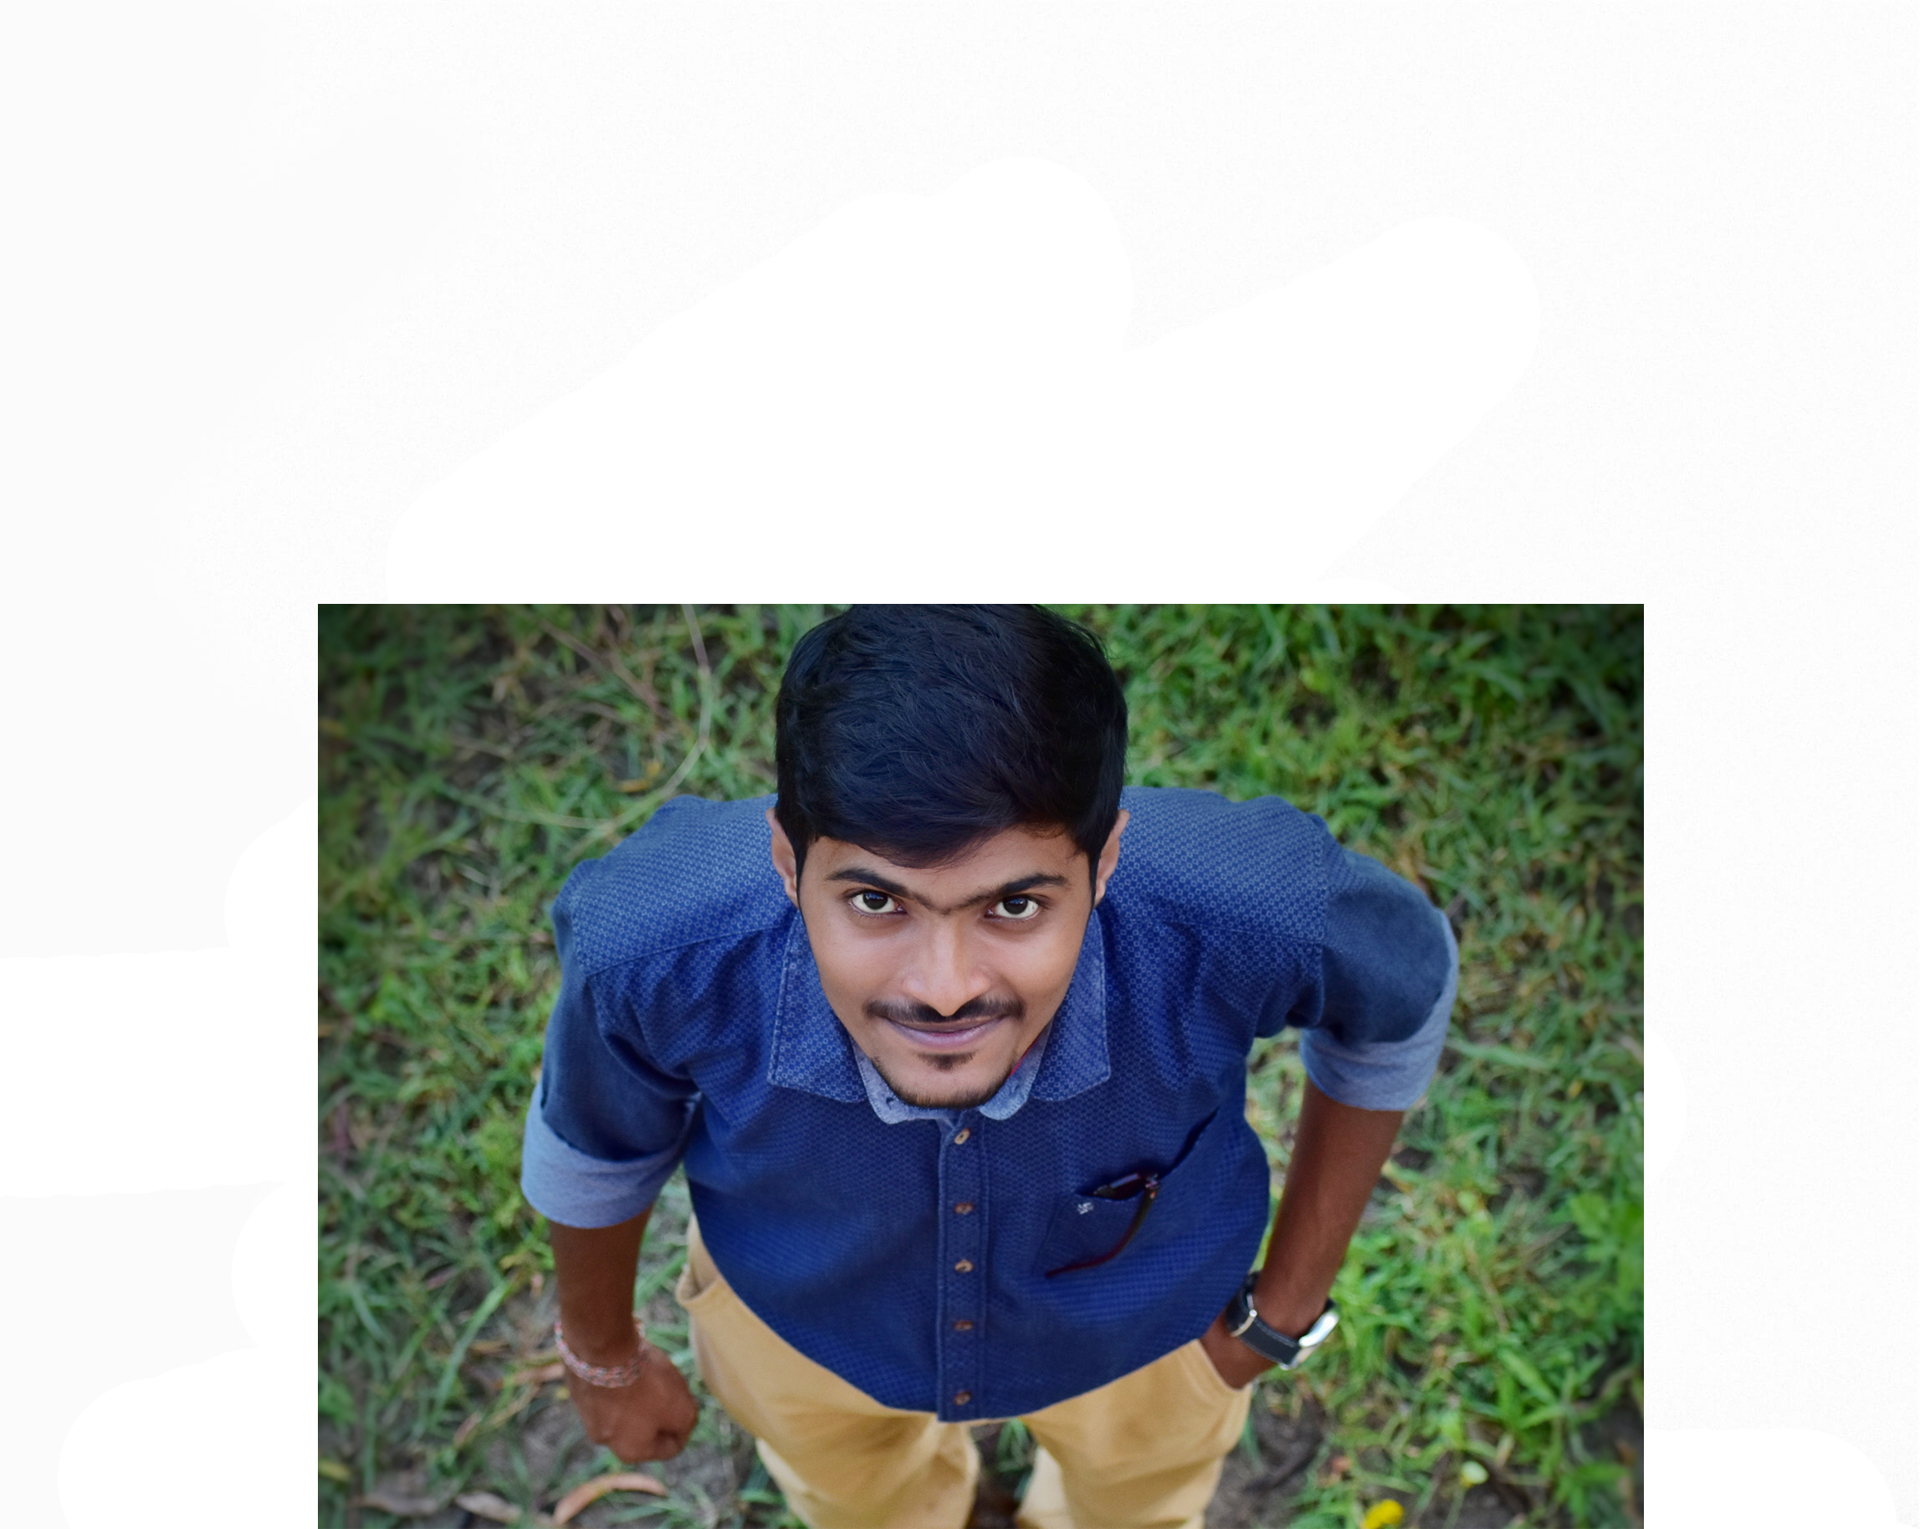
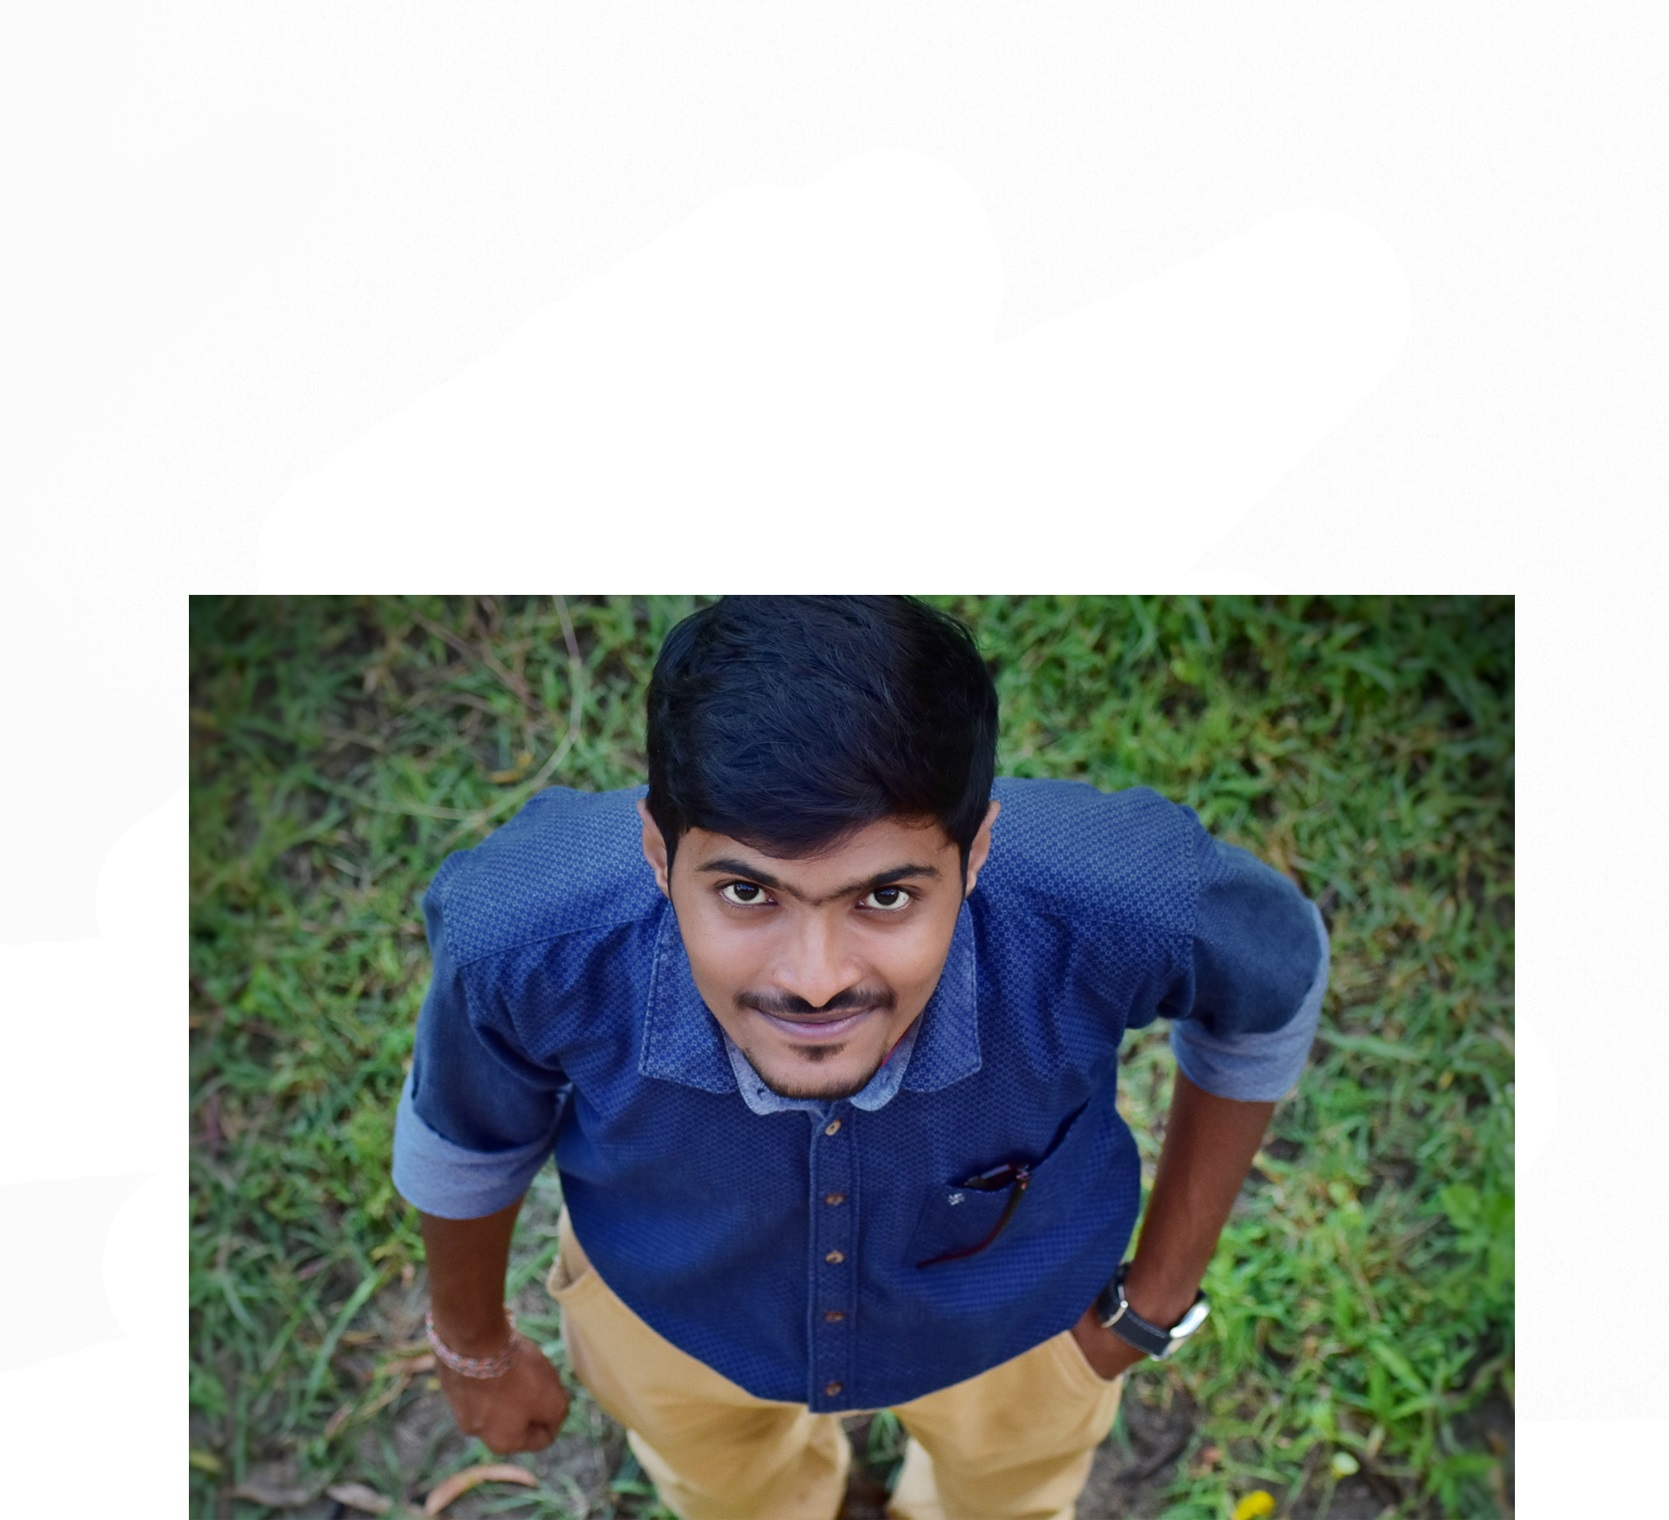
h

Changed region(s): [[0.0935, 0.3711, 0.9347, 1.0]]

diff --git a/index.html b/index.html
@@ -60,7 +60,7 @@
             </div><!--/container-->
 		  <!-- Header Image -->
           <section class="hero" id="hero">
-            <div class="container">
+            <div class="container-fluid">
 			  <!-- Slider Button (don't edit!)-->
               <div class="row">
                 <div class="col-md-12 text-right navicon">
@@ -71,20 +71,21 @@
 			  <section>
               <div class="row">
                 <div class="col-md-8 col-md-offset-1 inner">
-                  <h1 class="animated fadeInDown" >
+                  <h1 class="animated fadeInDown" id="myname">
                     PR<span style="color:#E04343;">AT</span>IK<br/>
-                    <span>LAH<span style="color:#FFE800">UDK</span>AR</span>
+                    <span>LAH<span style="color:#FFE800;">UDK</span>AR</span>
                   </h1>
-                  </section>
                   <!-- Title -->
-                  <h3 class="animated fadeInUp delay-05s"><span class="rotate">Developer,Photographer, Artist</span></h3><!-- Text Rotator -->
+                  <h3 class="animated fadeInUp delay-02s" style="margin-top: -15px;"><span class="rotate">Developer,Photographer, Artist</span></h3><!-- Text Rotator -->
+                
+                <br>
                 </div>
-              </div>
+              </div></section>
 			  <!-- Learn More Button -->
               <div class="row">
                 <div class="col-md-6 col-md-offset-3 text-center">
                   <a href="index.html#about" class="scrollto wow fadeInUp delay-5s ">
-			            <p>SEE MORE</p>
+			            
 			            <p class="scrollto--arrow"><img src="img/scroll-down.png" alt="scroll down arrow"></p>
 			        </a>
                 </div>
@@ -584,7 +585,7 @@
           <div class="container">
             <div class="row">
               <div class="col-md-12 text-center">
-                <p>All Rights Reserved. &copy; 2018 <a style=" href="http://www.pratix.in">PratiX.in</a>
+                <p>All Rights Reserved. &copy; 2018 <a style="">PratiX.in</a>
               </div>
             </div>
           </div>
@@ -614,7 +615,13 @@
     <script src="assets/lightbox/js/lightbox.min.js"></script>
     <!-- Google Maps --> 
     <script type="text/javascript" src="https://maps.googleapis.com/maps/api/js?key=AIzaSyDeKBBPJTG3v5w3cNPAgM6ZsJiPyL1mP_o&amp;sensor=false"></script>
-	<!-- Theme JavaScript Core -->
+    <!-- Fitjs-->
+    <script src="js/jquery.fittext.js"></script>
+    <script>
+        jQuery("#myname").fitText(1, { minFontSize: '70px', maxFontSize: '100px' });
+      </script>
+    
+    <!-- Theme JavaScript Core -->
 	<script src="js/main.js"></script>
 	<script src="js/script.js"></script>
 

diff --git a/js/jquery.fittext.js b/js/jquery.fittext.js
@@ -1,0 +1,43 @@
+/*global jQuery */
+/*!
+* FitText.js 1.2
+*
+* Copyright 2011, Dave Rupert http://daverupert.com
+* Released under the WTFPL license
+* http://sam.zoy.org/wtfpl/
+*
+* Date: Thu May 05 14:23:00 2011 -0600
+*/
+
+(function( $ ){
+
+  $.fn.fitText = function( kompressor, options ) {
+
+    // Setup options
+    var compressor = kompressor || 1,
+        settings = $.extend({
+          'minFontSize' : Number.NEGATIVE_INFINITY,
+          'maxFontSize' : Number.POSITIVE_INFINITY
+        }, options);
+
+    return this.each(function(){
+
+      // Store the object
+      var $this = $(this);
+
+      // Resizer() resizes items based on the object width divided by the compressor * 10
+      var resizer = function () {
+        $this.css('font-size', Math.max(Math.min($this.width() / (compressor*10), parseFloat(settings.maxFontSize)), parseFloat(settings.minFontSize)));
+      };
+
+      // Call once to set.
+      resizer();
+
+      // Call on resize. Opera debounces their resize by default.
+      $(window).on('resize.fittext orientationchange.fittext', resizer);
+
+    });
+
+  };
+
+})( jQuery );
